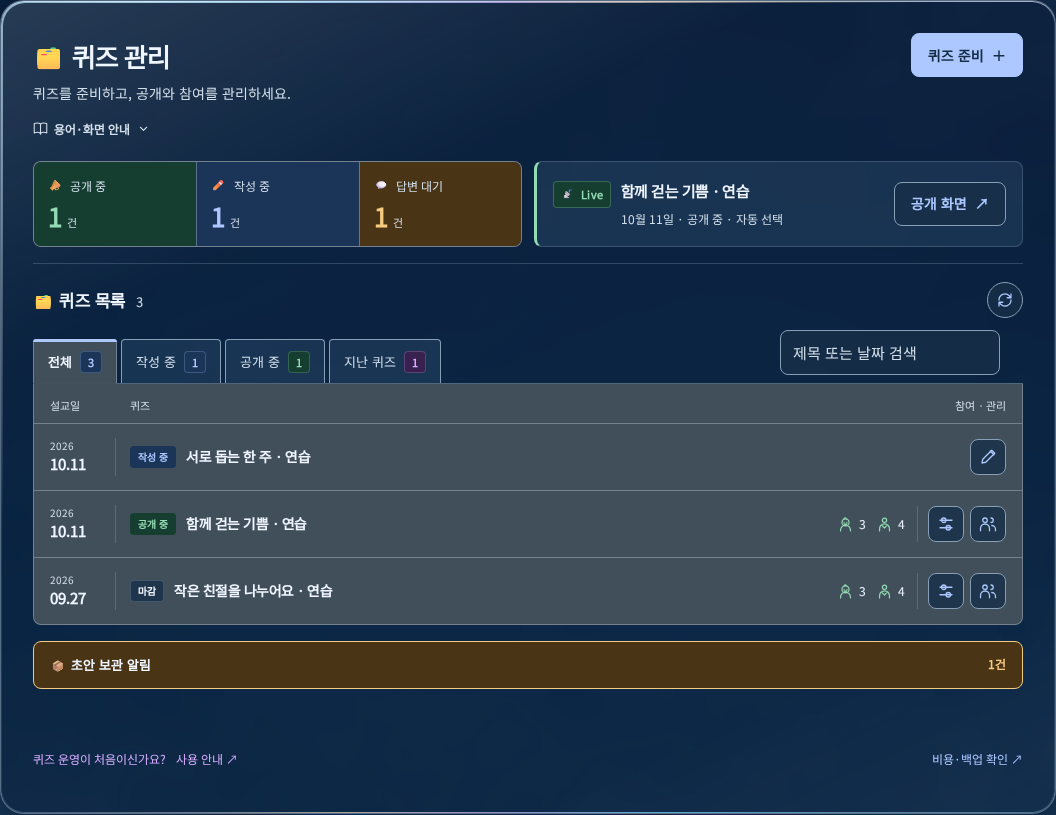
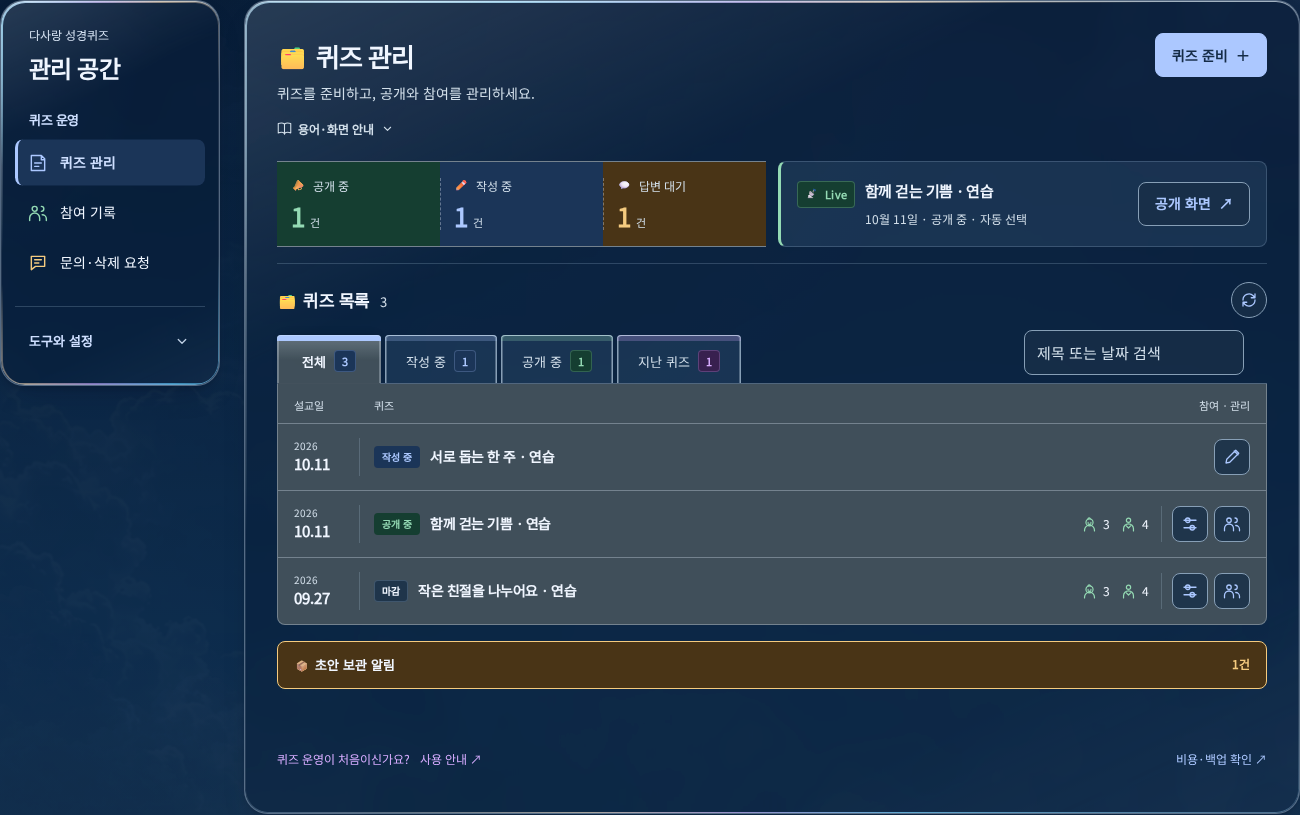
Keep admin indexes attached and refine transparent surfaces

diff --git a/docs/design/phase-9/admin-boards/review.html b/docs/design/phase-9/admin-boards/review.html
@@ -3,15 +3,15 @@
 <meta charset="utf-8"><meta name="viewport" content="width=device-width, initial-scale=1">
 <title>관리자 실제 화면과 생성 시안 비교</title>
 <style>
-body{margin:0;background:#eaf4fa;color:#17334a;font:15px/1.7 system-ui,sans-serif}main{max-width:1320px;margin:auto;padding:28px 20px}h1{font-size:26px;margin:0 0 8px}h2{font-size:21px;margin:0 0 8px}p{margin:8px 0 20px}section{border-top:1px solid #b8cfde;padding:24px 0}a{color:#245ac1}nav{display:flex;flex-wrap:wrap;gap:12px 24px;margin:20px 0}img{display:block;width:100%;height:auto;border:1px solid #b8cfde;background:white;border-radius:8px}figure{margin:0;min-width:0}figcaption{font-weight:600;margin-bottom:10px}.compare{display:grid;grid-template-columns:1fr 1fr;gap:24px;align-items:start}.quiz{max-width:1060px}small{display:block;color:#496376}a:focus-visible{outline:3px solid #245ac1;outline-offset:4px}@media(max-width:850px){.compare{grid-template-columns:1fr}}
+body{margin:0;background:#eaf4fa;color:#17334a;font:15px/1.7 system-ui,sans-serif}main{max-width:1320px;margin:auto;padding:28px 20px}h1{font-size:26px;margin:0 0 8px}h2{font-size:21px;margin:0 0 8px}p{margin:8px 0 20px}section{border-top:1px solid #b8cfde;padding:24px 0}a{color:#245ac1}nav{display:flex;flex-wrap:wrap;gap:12px 24px;margin:20px 0}img{display:block;width:100%;height:auto;border:1px solid #b8cfde;background:white;border-radius:8px}figure{margin:0;min-width:0}figcaption{font-weight:600;margin-bottom:10px}.compare{display:grid;grid-template-columns:1fr 1fr;gap:24px;align-items:start}.quiz{max-width:1320px}small{display:block;color:#496376}a:focus-visible{outline:3px solid #245ac1;outline-offset:4px}@media(max-width:850px){.compare{grid-template-columns:1fr}}
 .themes{display:flex;gap:6px;margin:18px 0}.themes button{min-height:40px;padding:8px 14px;border:1px solid #8baabe;border-radius:5px;background:transparent;color:inherit;cursor:pointer;font:inherit}.themes button[aria-pressed=true]{background:#245ac1;color:white;border-color:#245ac1}.themes button:focus-visible{outline:3px solid #245ac1;outline-offset:3px}body[data-preview=night]{background:#152839;color:#eaf2fa}body[data-preview=night] a{color:#acc8ff}body[data-preview=night] small{color:#c0d2e6}</style>
 <main>
 <h1>관리자 실제 화면과 생성 시안</h1>
-<p>2026년 10월 14일 적용 화면입니다. 현황과 Live를 5:5로 나누고, 초록·파랑·노랑 현황 바탕과 목록에 이어지는 카테고리를 적용했습니다. 실제 React UI에 연습 자료를 표시해 촬영했으며, 이미지를 누르면 원본을 크게 볼 수 있습니다.</p>
+<p>2026년 10월 14일 적용 화면입니다. 본문에 붙은 입체적인 인덱스, 점선으로 나눈 현황판, 콘텐츠 창과 투명도를 맞춘 사이드바를 적용했습니다. 실제 React UI에 연습 자료를 표시해 촬영했으며, 이미지를 누르면 원본을 크게 볼 수 있습니다.</p>
 <nav aria-label="실제 관리자 화면"><a href="/admin">퀴즈 관리 열기</a><a href="/admin/submissions">참여 기록 열기</a><a href="/admin/privacy-requests">문의·삭제 요청 열기</a></nav>
 <div class="themes" role="group" aria-label="실제 화면 시간대"><button type="button" data-preview-time="day" aria-pressed="true">☀ 낮 화면</button><button type="button" data-preview-time="night" aria-pressed="false">☾ 밤 화면</button></div>
 <p>낮·밤 버튼으로 실제 화면을 바꿔 볼 수 있습니다. 기존 생성 시안 두 장은 낮 배경을 유지합니다.</p>
-<section><h2>퀴즈 관리</h2><p>현황과 Live가 같은 폭을 사용합니다. 공개 중은 초록, 작성 중은 파랑, 답변 대기는 노랑 바탕이며 마우스를 올리면 칸 전체가 더 선명해집니다. 선택한 카테고리는 아래 목록과 하나의 폴더처럼 이어집니다.</p><figure class="quiz"><figcaption>실제 화면 · 연습 자료</figcaption><a href="quiz-actual.png"><img data-screenshot-day="quiz-actual.png" data-screenshot-night="quiz-night.png" src="quiz-actual.png" alt="실제 퀴즈 관리: 5대5 현황·Live, 세 가지 현황 바탕, 본문과 이어지는 인덱스"></a></figure></section>
+<section><h2>퀴즈 관리</h2><p>현황과 Live의 5:5 비율과 세 가지 바탕색을 유지했습니다. 현황판은 각진 모서리·위아래 선·점선 구분을 사용합니다. 인덱스는 호버해도 본문에서 떨어지지 않으며, 넓은 상단 색 띠와 얇은 반사·그림자로 입체감을 줍니다. 왼쪽 메뉴도 콘텐츠 창과 같은 투명도로 볼 수 있습니다.</p><figure class="quiz"><figcaption>실제 화면 · 연습 자료</figcaption><a href="quiz-actual.png"><img data-screenshot-day="quiz-actual.png" data-screenshot-night="quiz-night.png" src="quiz-actual.png" alt="실제 퀴즈 관리와 투명한 사이드바: 점선 현황판과 본문에 붙은 입체 인덱스"></a></figure></section>
 <section><h2>참여 기록</h2><p>행을 펼치면 왼쪽에는 답안과 코멘트, 오른쪽에는 처리 폼이 나타납니다. 점수와 상태를 작은 박스로 구분하고, 실제 제출값은 입력한 칸을 파랑·빈칸을 호박색으로 표시합니다.</p><div class="compare"><figure><figcaption>실제 화면 · 연습 자료</figcaption><a href="submissions-actual.png"><img data-screenshot-day="submissions-actual.png" data-screenshot-night="submissions-night.png" src="submissions-actual.png" alt="실제 참여 기록: 한 행을 펼친 답안과 관리 폼, 나머지 짧은 행"></a></figure><figure><figcaption>기존 생성 시안 · 배치 참고</figcaption><a href="submissions-reference.png"><img src="submissions-reference.png" alt="참여 기록의 기존 생성 시안"></a></figure></div></section>
 <section><h2>문의·삭제 요청</h2><p>카테고리와 목록이 시안처럼 같은 바탕으로 이어집니다. 접힌 행에는 이름·분류·상태·날짜와 한 줄 미리보기가 보입니다. 펼치면 전체 원문과 상태·답변 폼을 확인할 수 있습니다.</p><div class="compare"><figure><figcaption>실제 화면 · 연습 자료</figcaption><a href="inquiries-actual.png"><img data-screenshot-day="inquiries-actual.png" data-screenshot-night="inquiries-night.png" src="inquiries-actual.png" alt="실제 문의 게시판: 펼친 요청의 상태 선택과 답변 입력, 접힌 나머지 요청"></a></figure><figure><figcaption>기존 생성 시안 · 배치 참고</figcaption><a href="inquiries-reference.png"><img src="inquiries-reference.png" alt="문의 게시판의 기존 생성 시안"></a></figure></div></section>
 <small>기존 생성 이미지는 재사용했습니다. 실제 화면 이미지에는 개인 자료나 실제 운영 답안을 포함하지 않았습니다.</small>

diff --git a/src/components/admin-list-tools.module.css b/src/components/admin-list-tools.module.css
@@ -1,16 +1,16 @@
-.indexedBoard { min-width: 0; }
+.indexedBoard { --index-edge-light: color-mix(in srgb,var(--glass-highlight) 45%,transparent); min-width: 0; }
 .toolbar { display: flex; flex-wrap: wrap; align-items: end; justify-content: space-between; gap: 8px 16px; border-bottom: 1px solid var(--admin-board-border,var(--line)); min-width: 0; }
 .indexedPanel { min-width: 0; border: 1px solid var(--admin-board-border,var(--line)); border-top: 0; border-radius: 0 0 8px 8px; background: var(--admin-board-surface,var(--glass-solid)); overflow: clip; }
 .indexedPanel > p { margin: 0; padding: 16px; }
 .filters { display: flex; flex-wrap: wrap; align-items: end; gap: 4px; padding-top: 4px; }
-.filters button { position: relative; display: inline-flex; align-items: center; justify-content: center; gap: 8px; min-height: 44px; padding: 9px 14px; border: 1px solid var(--control-border); border-bottom: 0; border-radius: 4px 4px 0 0; background: var(--glass-soft); color: var(--muted); font-size: 13px; line-height: 1.5; transition: transform .18s ease, background-color .18s ease; }
-.filters button::before { content: ''; position: absolute; inset: -1px -1px auto; height: 3px; border-radius: 4px 4px 0 0; background: transparent; }
-.filters button[aria-pressed=true] { z-index: 1; background: var(--admin-board-surface,var(--glass-solid)); color: var(--ink); font-weight: 600; border-color: var(--admin-board-border,var(--line)); }
+.filters button { position: relative; display: inline-flex; align-items: center; justify-content: center; gap: 8px; min-width: 104px; min-height: 48px; padding: 12px 20px 9px; border: 1px solid var(--control-border); border-bottom: 0; border-radius: 4px 4px 0 0; background: var(--glass-soft); color: var(--muted); font-size: 13px; line-height: 1.5; box-shadow: inset 1px 0 0 var(--index-edge-light), inset -1px 0 0 var(--index-edge-light); transition: background-color .18s ease, box-shadow .18s ease; }
+.filters button::before { content: ''; position: absolute; inset: -1px -1px auto; height: 6px; border-radius: 4px 4px 0 0; background: color-mix(in srgb,var(--admin-tone) 24%,transparent); box-shadow: inset 0 1px 0 var(--index-edge-light); transition: background-color .18s ease; }
+.filters button[aria-pressed=true] { z-index: 1; background-color: var(--admin-board-surface,var(--glass-solid)); background-image: linear-gradient(to bottom,color-mix(in srgb,var(--glass-highlight) 35%,transparent),transparent 24px); color: var(--ink); font-weight: 600; border-color: var(--admin-board-border,var(--line)); box-shadow: inset 1px 0 0 var(--index-edge-light), inset -1px 0 0 var(--index-edge-light), 0 -4px 9px -6px var(--glass-shadow); }
 .filters button[aria-pressed=true]::before { background: var(--admin-tone); }
 /* Cover only the shared baseline, leaving the selected folder open into its contents. */
 .filters button[aria-pressed=true]::after { content: ''; position: absolute; inset: auto 0 -1px; height: 1px; background: var(--admin-board-solid,var(--glass-solid)); }
-.filters button:is(:hover,:focus-visible) { color: var(--ink); background: var(--admin-board-surface,var(--glass-solid)); }
-.filters button:not([aria-pressed=true]):is(:hover,:focus-visible) { transform: translateY(-4px); }
+.filters button:is(:hover,:focus-visible) { color: var(--ink); background-color: var(--admin-board-surface,var(--glass-solid)); box-shadow: inset 1px 0 0 var(--index-edge-light), inset -1px 0 0 var(--index-edge-light), 0 -4px 9px -6px var(--glass-shadow); }
+.filters button:is(:hover,:focus-visible)::before { background: var(--admin-tone); }
 .filters span { display: inline-flex; justify-content: center; align-items: center; min-width: 22px; min-height: 22px; padding-inline: 5px; border: 1px solid color-mix(in srgb,var(--admin-tone) 24%,transparent); border-radius: 4px; background: var(--admin-tone-bg); color: var(--admin-tone); font-size: 11px; font-weight: 600; font-variant-numeric: tabular-nums; }
 .controls { display: flex; align-items: center; gap: 8px; min-width: 0; margin-bottom: 8px; }
 /* One size rule for every refresh and square action; touch keeps a generous target. */
@@ -18,8 +18,9 @@
 :global(.sky-app:not(.home-shell) .admin-main) .iconControl.refresh:global(.action-button) { border-radius: 50%; }
 .iconControl svg { display: block; width: 18px; height: 18px; flex: 0 0 18px; }
 @media (pointer: coarse) { :global(.sky-app:not(.home-shell) .admin-main) .iconControl:global(.action-button) { --admin-icon-size: 44px; } }
-@media (max-width: 600px) { .toolbar { gap: 8px; } .filters { gap: 3px; } .filters button { padding-inline: 7px; gap: 4px; font-size: 12px; } .filters span { min-width: 20px; min-height: 20px; padding-inline: 4px; } .controls:has(input) { width: 100%; order: -1; } }
-@media (prefers-reduced-motion: reduce) { .filters button { transition: none; } }
+@media (max-width: 1200px) { .controls:has(input) { width: 100%; order: -1; } }
+@media (max-width: 600px) { .toolbar { gap: 8px; } .filters { gap: 3px; } .filters button { min-width: 0; padding-inline: 7px; gap: 4px; font-size: 12px; } .filters span { min-width: 20px; min-height: 20px; padding-inline: 4px; } }
+@media (prefers-reduced-motion: reduce) { .filters button, .filters button::before { transition: none; } }
 @media (forced-colors: active) { .filters button[aria-pressed=true] { border-color: Highlight; color: Highlight; } .filters button[aria-pressed=true]::before { background: Highlight; } }
 
 .boardHeader { min-width: 0; }

diff --git a/src/features/admin-weekly/admin-navigation.module.css b/src/features/admin-weekly/admin-navigation.module.css
@@ -1,8 +1,8 @@
-.sidebar:global(.glass) { position: sticky; top: 116px; display: flex; flex-direction: column; min-width: 0; padding: 24px 14px 16px; border-radius: 24px; }
-.sidebar .eyebrow { margin: 0 14px; color: var(--muted); font-size: 12px; }
+.sidebar:global(.glass) { --nav-action-ink: color-mix(in srgb,var(--ui-action) 50%,var(--ink)); position: sticky; top: 116px; display: flex; flex-direction: column; min-width: 0; padding: 24px 14px 16px; border-radius: 24px; background: var(--glass-clear); }
+.sidebar .eyebrow { margin: 0 14px; color: color-mix(in srgb,var(--muted) 60%,var(--ink)); font-size: 12px; }
 .sidebar .title { margin: 5px 14px 0; font-family: 'Noto Sans KR',sans-serif !important; font-size: 24px; font-weight: 700 !important; line-height: 1.5; letter-spacing: -.045em; color: var(--ink); }
 .menu { margin-top: 24px; }
-.sidebar .groupTitle { margin: 0 14px 10px; font-family: 'Noto Sans KR',sans-serif !important; font-size: 13px; font-weight: 700 !important; letter-spacing: 0; color: var(--ui-action) !important; }
+.sidebar .groupTitle { margin: 0 14px 10px; font-family: 'Noto Sans KR',sans-serif !important; font-size: 13px; font-weight: 700 !important; letter-spacing: 0; color: var(--nav-action-ink) !important; }
 .menu > summary, .settings > summary { display: flex; align-items: center; justify-content: space-between; gap: 8px; cursor: pointer; min-height: 44px; list-style: none; }
 .menu > summary::-webkit-details-marker, .settings > summary::-webkit-details-marker { display: none; }
 .menu > summary { padding: 10px 14px; font-size: 14px; }
@@ -15,11 +15,11 @@
 .menu nav { position: relative; isolation: isolate; }
 .highlight { position: absolute; top: 0; left: 0; pointer-events: none; z-index: -1; border-radius: 8px; background: var(--ui-action-bg); border-left: 3px solid var(--ui-action); transition: transform .2s ease-out, width .2s ease-out, height .2s ease-out; }
 .nav a { position: relative; }
-.sidebar .nav a[aria-current=page] { color: var(--ui-action); font-weight: 700; }
-.nav a:is(:hover,:focus-visible) { color: var(--ui-action); }
+.sidebar .nav a[aria-current=page] { color: var(--nav-action-ink); font-weight: 700; }
+.nav a:is(:hover,:focus-visible) { color: var(--nav-action-ink); }
 @media (prefers-reduced-motion: reduce) { .highlight { transition: none; } }
 .settings { border-top: 1px solid var(--line); margin-top: 20px; padding-top: 12px; }
-.settings > summary { color: var(--ui-action); font-size: 13px; font-weight: 700; padding: 8px 14px; margin-bottom: 6px; }
+.settings > summary { color: var(--nav-action-ink); font-size: 13px; font-weight: 700; padding: 8px 14px; margin-bottom: 6px; }
 .settings > summary svg { color: var(--muted); }
 .sidebar :is(a, summary):focus-visible { outline: 3px solid var(--focus); outline-offset: 3px; }
 .menu nav { display: block; padding-block: 0; }
@@ -39,6 +39,7 @@
 }
 @media (max-width: 500px) { .nav { grid-template-columns: 1fr; } .nav a { min-height: 44px; } }
 @media (forced-colors: active) {
+ .sidebar:global(.glass) { background: Canvas; color: CanvasText; }
  .sidebar .nav a[aria-current=page] { color: Highlight; background: Canvas; outline: 2px solid Highlight; outline-offset: -2px; }
  .highlight { background: Canvas; border: 2px solid Highlight; }
  .sidebar .groupTitle, .settings > summary { color: CanvasText; }

diff --git a/src/features/admin-weekly/dashboard.module.css b/src/features/admin-weekly/dashboard.module.css
@@ -1,10 +1,8 @@
 .page { display: grid; gap: 16px; min-width: 0; }
 .statusBar { display: grid; grid-template-columns: repeat(2,minmax(0,1fr)); gap: 12px; align-items: stretch; min-width: 0; }
-.overview { display: grid; grid-template-columns: repeat(3,minmax(0,1fr)); border: 1px solid var(--admin-board-border,var(--line)); border-radius: 8px; background: var(--admin-board-surface,var(--glass-solid)); }
-.overview > :is(button,a) { display: flex; flex-direction: column; align-items: flex-start; justify-content: center; gap: 4px; min-height: 84px; min-width: 0; padding: 10px 14px; border: 0; border-radius: 0; background: var(--admin-tone-bg); color: var(--ink); text-decoration: none; transition: background-color .18s ease; }
-.overview > :is(button,a) + :is(button,a) { border-left: 1px solid var(--admin-board-border,var(--line)); }
-.overview > :first-child { border-radius: 7px 0 0 7px; }
-.overview > :last-child { border-radius: 0 7px 7px 0; }
+.overview { display: grid; grid-template-columns: repeat(3,minmax(0,1fr)); border-block: 1px solid var(--admin-board-border,var(--line)); background: var(--admin-board-surface,var(--glass-solid)); }
+.overview > :is(button,a) { position: relative; display: flex; flex-direction: column; align-items: flex-start; justify-content: center; gap: 4px; min-height: 84px; min-width: 0; padding: 10px 14px; border: 0; border-radius: 0; background: var(--admin-tone-bg); color: var(--ink); text-decoration: none; transition: background-color .18s ease; }
+.overview > :is(button,a) + :is(button,a)::before { content: ''; position: absolute; left: 0; top: 16px; bottom: 16px; border-left: 1px dashed color-mix(in srgb,var(--ink) 34%,transparent); pointer-events: none; }
 .overview > :is(button,a):is(:hover,:focus-visible,[aria-pressed=true]) { background: color-mix(in srgb,var(--admin-tone) 12%,var(--admin-tone-bg)); }
 .overview > button[aria-pressed=true] { box-shadow: inset 0 -3px var(--admin-tone); }
 .metricLabel { display: inline-flex; align-items: center; gap: 4px; color: var(--muted); font-size: 12px; white-space: nowrap; }

diff --git a/tests/e2e/admin-boards.spec.ts b/tests/e2e/admin-boards.spec.ts
@@ -45,6 +45,11 @@ test('quiz and inbox indexes stay joined to the list while filtering',async({pag
     const layout=await toolbar.evaluate(n=>({width:n.getBoundingClientRect().width,parent:n.parentElement!.getBoundingClientRect().width,border:getComputedStyle(n).borderBottomWidth}));
     expect(layout.width).toBeGreaterThan(layout.parent-2);expect(layout.border).toBe('1px');
     const selected=tabs.locator('[aria-pressed=true]');await expect(selected).toHaveCSS('border-top-left-radius','4px');
+    const preview=tabs.getByRole('button').nth(1);
+    await preview.hover();
+    await expect(preview).toHaveCSS('background-color',await page.locator('[data-admin-indexed-panel]').evaluate(n=>getComputedStyle(n).backgroundColor));
+    const afterHover=await preview.boundingBox(),panel=await page.locator('[data-admin-indexed-panel]').boundingBox();
+    expect(Math.abs(panel!.y-afterHover!.y-afterHover!.height)).toBeLessThanOrEqual(1);
     await tabs.getByRole('button').last().click();await expect(tabs.getByRole('button').last()).toHaveAttribute('aria-pressed','true');
     await expect(selected).toHaveCSS('background-color',await page.locator('[data-admin-indexed-panel]').evaluate(n=>getComputedStyle(n).backgroundColor));
     const joined=await page.locator('[data-admin-indexed-board]').evaluate(n=>{

diff --git a/tests/e2e/admin-guide-capture.spec.ts b/tests/e2e/admin-guide-capture.spec.ts
@@ -49,10 +49,11 @@ test('capture operator guide examples', async ({ page }) => {
     await page.screenshot({path:`public/images/admin-guide/${id}.png`,animations:'disabled',fullPage:true,clip:{x:a.x+scroll.x,y:a.y+scroll.y,width:a.width,height:b.y+b.height-a.y}});
   }
   async function boardShot(id:string) {
-    await page.locator('.admin-main').screenshot({path:`docs/design/phase-9/admin-boards/${id}-actual.png`,animations:'disabled'});
+    const board=page.locator(id==='quiz'?'.admin-layout':'.admin-main');
+    await board.screenshot({path:`docs/design/phase-9/admin-boards/${id}-actual.png`,animations:'disabled'});
     await page.getByRole('button',{name:'밤',exact:true}).click();
     await expect(page.locator('body')).toHaveAttribute('data-time','night');
-    await page.locator('.admin-main').screenshot({path:`docs/design/phase-9/admin-boards/${id}-night.png`,animations:'disabled'});
+    await board.screenshot({path:`docs/design/phase-9/admin-boards/${id}-night.png`,animations:'disabled'});
   }
   const dashboardOnly=process.env.BIBLEQUIZ_CAPTURE_ADMIN_GUIDE_ONLY === 'dashboard';
   await open('/admin');

diff --git a/tests/e2e/admin-glass.spec.ts b/tests/e2e/admin-glass.spec.ts
@@ -35,6 +35,7 @@ test("admin menus group tasks, use a flat moving highlight and use compact share
   await expect(page.getByRole("heading",{name:"퀴즈 관리",exact:true})).toHaveCSS("font-family", /Noto Sans KR/);
   await page.locator(".admin-main").screenshot({ path: info.outputPath("admin-buttons-day.png") });
   const sidebar=page.locator("aside[data-glass-panel=standard]"),navigation=page.getByRole("navigation",{name:"관리자 운영 메뉴"});
+  await expect(sidebar).toHaveCSS('background-color',await page.locator('.admin-main').evaluate(node=>getComputedStyle(node).backgroundColor));
   const toggle=sidebar.locator("summary").filter({hasText:"관리자 운영 메뉴"});
   if (isMobile) {
     await toggle.focus(); await page.keyboard.press("Enter"); await expect(navigation).toBeVisible();

diff --git a/docs/HANDOFF.md b/docs/HANDOFF.md
@@ -2,17 +2,18 @@
 
 ## 현재 작업과 Git
 
-**P9-23 현황·Live 5:5와 연결된 인덱스 — 로컬 완료.** `/home/onegem/work/bibleQuiz`, main `c2e4fa3` / clean에서 재개했다. 이번 커밋 제목은 `Connect admin indexes to boards and balance overview`다. 정확한 마지막 해시와 작업 폴더는 `git log -1`·`git status --short`로 확인한다. 후속 보정은 같은 P9-23에서 처리한다.
+**P9-23 붙어 있는 입체 인덱스·점선 현황·투명 사이드바 — 로컬 완료.** `/home/onegem/work/bibleQuiz`, main `063a310` / clean에서 재개했다. 이번 커밋 제목은 `Keep admin indexes attached and refine transparent surfaces`다. 정확한 해시와 작업 폴더는 `git log -1`·`git status --short`로 확인한다. 후속 보정은 같은 P9-23에서 처리한다.
 
 ## 변경과 검사
 
-- Dashboard 현황/Live를5:5로, 현황은 초록·파랑·노랑 상시 바탕으로 바꿨다. 전체 칸 호버·선택 선·시간대 의미색·1100px 이하 위아래 배치를 유지한다.
-- AdminListTools의 기존 필터를 `AdminIndexedBoard`로 확장했다. Dashboard/PrivacyInbox의 선택 탭과 목록을 같은 바탕으로 연결하고 중간 여백·중복 테두리를 제거했다. 조회/빈 상태도 같은 본문을 쓴다. 비선택 탭의 이동·기존 필터/검색/문의 입력 유지·참여 목록의 외곽은 보존한다. 관련 CSS3개와 E2E 연결 검사를 함께 수정했다.
-- 관련 PC/모바일 E2E14건은 최초12통과·2실패. 색 전환 도중 측정한 검사만 전환 완료를 기다리도록 고쳐 해당2건 모두 통과했다. 최종 lint/typecheck·합성 캡처1건 통과. 실제5173 퀴즈/문의 네 시간대·1440/390/320px·접힘/펼침36상태, 현황12개 호버·중간 폭6종·낮/밤 감소/강제 색상4상태에서 넘침/오류/쓰기0. PC 두 영역의 폭 차이1px 미만이며 새로고침 중심·입력 유지·키보드를 확인했다.
-- 비교용 낮/밤6장과 설명용3장을 합성 GET으로 촬영했다. 퀴즈/문의 비교4장과 설명용2장이 변경됐으며 나머지는 동일하다. 기존 시안2장은 보존한다. 비교 페이지의 낮/밤 전환·8개 PNG HTTP/디코딩·원본 링크·320px 확인을 사용자 기기 표시와 구별한다.
-- DESIGN/디자인 정본/결정/상태·작업 기록/자산 목록을 갱신했다. [현재 기록](work/P9-23.md#동등한-현황live와-본문에-연결된-인덱스), ignored 증거 `.wrangler/releases/p9-23/folder-index-*`. 이번에는 build/전체check/전체E2E·Firefox/Safari·실기기/화면 읽기 프로그램을 반복하지 않았다. 이전 검증 이력은 작업 기록을 따른다.
+- `admin-list-tools.module.css`: 탭의 위치 이동을 모두 없애고6px 상단 색 띠·넓은 PC 탭·얇은 반사/그림자를 적용했다. 검색은1200px 이하에서 탭 위에 배치한다. 모바일 한 줄 탭과 키보드 전환을 유지한다.
+- `dashboard.module.css`: 현황은 직각·위아래 선만 사용하며 가운데는 위아래 여백이 있는 점선이다.5:5·세 의미색·전체 호버는 유지한다.
+- `admin-navigation.module.css`: 사이드바를 콘텐츠 창과 같은 맑은 유리로 바꾸고 작은 글자 대비를 보완했다. 기존 메뉴·아이콘 역할색·선택 받침·모바일 접기를 유지한다.
+- 관련 E2E14건 최초13통과·1실패. 모바일 호버 시 자동 스크롤을 이동으로 오인한 검사만 상대 간격 기준으로 수정했으며 해당 PC/모바일2건 통과. 최종 lint/typecheck·합성 캡처1건 통과. 실제 네 시간대·1440/390/320px36상태, 현황12개 호버·중간 폭6종·감소/강제 색상4상태를 확인했다. 반사/글자 최종 보정 후84개 탭 호버·12개 사이드바 상태에서도 연결/넘침/오류/쓰기 문제0. 작은 메뉴 글자 표본 대비 최저4.68:1이며 전체 앱 인증과 구별한다.
+- 퀴즈/문의 비교용 낮/밤4장과 설명용2장이 변경됐다. 퀴즈 비교 화면에는 사이드바까지 포함한다. 참여/나머지 설명 자산·기존 생성 시안은 보존한다. PNG8종 HTTP200/디코딩·확대 링크·낮/밤 전환·320px 검사를 사용자 기기 표시와 구별한다.
+- [현재 기록](work/P9-23.md#붙어-있는-입체-인덱스점선-현황투명-사이드바), ignored `.wrangler/releases/p9-23/attached-tabs-*`. 최종 관련 파일·DESIGN/명세/결정/상태/자산 문서를 검토해 로컬 커밋한다. 이번에는 build/전체check/전체E2E·Firefox/Safari·실기기/화면 읽기 프로그램을 반복하지 않았다.
 
-폐기한 접근: 비대칭 현황/Live, 무채색의 기본 현황, 카테고리와 본문의 틈/중복 테두리, 선택 탭까지 띄우는 호버. 필터 재시도·접기/입력 유지·매뉴얼·공통 버튼과 밤 회청색 본문은 보존한다.
+폐기한 접근: 본문과 분리되는 호버 이동, 밤의 과한 이중 반사, 투명도만 바꿔 작은 글자 대비를 떨어뜨리기. 기존 자료·필터/검색·접기/입력·매뉴얼·공통 버튼은 보존한다.
 
 ## 실행과 다음 첫 작업
 
@@ -25,7 +26,7 @@
 
 도구는 검증된 `/bin/bash`, `login:false`, 명시 workdir, `require_escalated` 승인 검토 경로를 쓴다. 시작 전 ENOENT를 WSL 단절로 판단하거나 승인 거부를 우회하지 않는다. 이미지는 확인된HTTP/첨부로 보여주며 WSL 경로 Markdown만 보내지 않는다.
 
-시작 Pro 잔여82% × 사용자 지정10 =820%, 별도5시간 창 없음. 다음 구현 전 사용량을 확인한다. 읽기 순서: AGENTS → PROJECT_CONTEXT → DECISIONS → STATUS → HANDOFF → implementation 관련 명세 → P9-23 → Git 상태/diff/log.
+시작 Pro 잔여81% × 사용자 지정10 =810%, 별도5시간 창 없음. 다음 구현 전 사용량을 확인한다. 읽기 순서: AGENTS → PROJECT_CONTEXT → DECISIONS → STATUS → HANDOFF → implementation 관련 명세 → P9-23 → Git 상태/diff/log.
 
 push/배포·실제 자료 쓰기·AI 호출·새 의존성은 없다. Preview는 P9-14 소스 `0fbde84` / version `cd6efb0e-2c05-4401-b0bf-692bdf18c5b1`, Production은 P9-04 소스 `37b7254` / version `7aea6843-5288-42da-9bef-bc673e1d9dfe` 그대로다.
 

diff --git a/docs/work/P9-23.md b/docs/work/P9-23.md
@@ -231,6 +231,19 @@ Git 제외 증거는 `.wrangler/releases/p9-23/editorial/`: `e2e-admin.log`, `e2
 
 증거: ignored `.wrangler/releases/p9-23/folder-index-*`. 현재 후속은 Phase/배포 경계가 아니며 build/전체check/전체E2E·Firefox/Safari·실기기/화면 읽기 프로그램을 반복하지 않았다. DESIGN/디자인 정본/결정/상태/인계·자산 문서를 갱신하고 로컬 커밋한다. 기존5173과 로컬 자료·의존성·AI·원격·push/배포는 바꾸지 않았다. 폐기한 접근: 비대칭 현황/Live, 평상시 무채색 현황 칸, 카테고리와 목록 사이의 틈/중복 테두리, 선택한 탭까지 띄워 연결을 끊는 호버.
 
+## 붙어 있는 입체 인덱스·점선 현황·투명 사이드바
+
+2026-10-14. main `063a310` / clean에서 같은 P9-23을 재개했다. 실제 경로 `/home/onegem/work/bibleQuiz`, Pro 잔여81% × 사용자 기준10 =810%, 별도5시간 창 없음. 추천 GPT-6.1-sol/medium. 기존 문의 시안을 다시 대조했다.
+
+- `admin-list-tools.module.css`: 비선택 탭의4px 이동도 제거했다.6px 상단 색 띠, PC 최소104px 폭·48px 높이와 얇은 반사/위쪽 그림자로 붙어 있는 입체감을 만들었다.1200px 이하 검색은 탭 위에 두고 모바일 탭 폭은 기존처럼 줄인다. 선택·검색·키보드 기능과 본문 연결은 유지한다.
+- `dashboard.module.css`: 현황의 둥근 모서리·좌우 외곽선을 제거했다. 위아래1px 선과 위아래16px를 비운 가운데1px 점선 두 개를 사용한다.5:5·세 의미색·전체 칸 호버를 보존한다.
+- `admin-navigation.module.css`: 사이드바도 세 게시판 창의 맑은 유리 토큰을 사용한다. 첫 실제 화면에서 낮·새벽의 작은 파란 글자 대비가 낮아 실행/기본 글자색을1:1로 섞고 보조 글자도 보완했다. 아이콘의 의미색·현재 메뉴·이동 받침·모바일 접기·감소/강제 색상은 보존한다.
+- 관련 Chromium PC/모바일 E2E14건은 최초13통과·1실패. 새 호버 검사가 모바일 자동 스크롤7px를 이동 효과로 잘못 측정했다. 화면 좌표 비교를 없애고 탭과 본문의 실제 상대 간격을 확인한 뒤 해당 PC/모바일2건 모두 통과했다. 최종 lint/typecheck와 합성 캡처1건 통과.
+- 실제 네 시간대·1440/390/320px 퀴즈/문의 접힘·펼침36상태에서 넘침/오류/쓰기0, 사이드바와 창의 같은 배경색·5:5·입력 유지·새로고침 중앙을 확인했다. 현황12개 호버·중간 폭6종·감소/강제 색상4상태도 확인했다. 밤 반사선과 메뉴 글자를 보완한 최종 화면은84개 탭 호버 조합 및 열린 모바일 메뉴를 포함한12개 사이드바 상태에서 다시 확인했다. 모든 탭의 본문 간격1px 이하, 실제 배경 위 작은 메뉴 글자 표본 대비 최저4.68:1. 화면 전체의 접근성 인증을 뜻하지 않는다. 기본 Python에 Pillow가 없어 새 설치 없이 브라우저 canvas로 표본 픽셀을 읽었다.
+- 합성 자료의 실제 낮/밤 비교6장과 설명용3장을 재촬영했다. 퀴즈 비교2장에는 사이드바도 포함하며 문의 비교2장·설명용 dashboard/privacy2장도 바뀌었다. 참여 촬영본·기타6개 설명 자산·기존 시안은 동일하다. [비교 페이지](../design/phase-9/admin-boards/review.html)의8개 PNG HTTP200/image/png·디코딩·확대 링크·낮/밤 키보드 전환·320px 넘침 없음 확인. 사용자 기기 표시와 구별한다.
+
+증거는 ignored `.wrangler/releases/p9-23/attached-tabs-*`. DESIGN/관련 명세·결정/STATUS/HANDOFF/자산 목록을 갱신하고 로컬 커밋한다. 새 의존성·실제 AI·자료 쓰기·원격 변경·push/배포는 없다. 이번 범위에서 build/전체check/전체E2E·Firefox/Safari·실기기/화면 읽기 프로그램은 반복하지 않았다. 폐기한 접근: 탭을 띄워 본문과 분리하기, 밤의 과한 이중 반사선, 투명도를 높이면서 작은 글자 대비를 그대로 두기, 모바일 스크롤을 탭 이동으로 판단하기.
+
 ## 한계와 보존
 
 이모지의 모양은 기기의 시스템 글꼴에 따라 달라진다. WSL의 미설치 글꼴로 인한 빈 네모는 캡처에서만 이미 설치된 Windows 글꼴을 읽어 해결했고 앱에 글꼴을 배포하지 않는다. 새 화면 예시는 연습 자료이며 실제 운영 검증 증거가 아니다. 실기기·화면 읽기 프로그램·원격 인증/배포는 이번 검증 범위에 포함하지 않는다. Phase/배포 단위의 전체 필수 검사는 별도 경계에서 수행한다.

diff --git a/docs/design/phase-9/admin-boards/README.md b/docs/design/phase-9/admin-boards/README.md
@@ -10,20 +10,20 @@ HTTP 확인 주소: `http://localhost:5173/docs/design/phase-9/admin-boards/subm
 
 2026-10-14 사용자 재현 요청에 따라 실제 `/admin`, `/admin/submissions`, `/admin/privacy-requests`를 다시 적용했다. 기존에는 본문과 도구 버튼이 항상 보였으나 이제 시안처럼 짧은 행 전체를 펼친다. 참여는 답안/관리, 문의는 상태/답변을 좌우로 배치하고 모바일에서는 위아래로 놓는다. 문의의 관련 퀴즈 링크는 행 클릭과 겹치지 않도록 펼친 본문에 둔다.
 
-시안의 개별 행 틈은 사용자의 연속 게시판 요청에 따라 없앴다. 가상 정오답 색·인물 사진은 만들지 않았고 실제 답안 좌표/입력값과 기존 선 아이콘을 쓴다. 하늘·투명 표면·다섯 의미 색상은 유지한다. 바깥 창은 맑은 유리, 핵심 현황·목록·펼친 내용은 선명한 바탕으로 구분했다. 퀴즈 현황과 Live는 넓은 화면에서5:5다. 세 현황 칸은 초록·파랑·노랑 바탕과 전체 칸 호버를 사용하며, Live는 별도 유리 영역으로 구분한다. 퀴즈·문의 카테고리는 선택 탭과 목록이 하나의 폴더로 이어진다. 밤 목록은 회청색으로 구분하며 색상 인덱스·작은 점수/입력 여부 박스를 적용했다.66px 퀴즈 행과 모바일 자연 배치를 유지한다.
+시안의 개별 행 틈은 사용자의 연속 게시판 요청에 따라 없앴다. 가상 정오답 색·인물 사진은 만들지 않았고 실제 답안 좌표/입력값과 기존 선 아이콘을 쓴다. 하늘·투명 표면·다섯 의미 색상은 유지한다. 바깥 창은 맑은 유리, 핵심 현황·목록·펼친 내용은 선명한 바탕으로 구분했다. 퀴즈 현황과 Live는 넓은 화면에서5:5다. 세 현황 칸은 초록·파랑·노랑 바탕과 직각 모서리·위아래 선·가운데 점선을 사용하며, Live는 별도 유리 영역으로 구분한다. 퀴즈·문의 인덱스는 호버 때도 본문에 붙어 있고 넓은 상단 색 띠·얇은 반사·그림자를 쓴다. 사이드바도 콘텐츠 창과 같은 투명도를 사용하며 퀴즈 실제 촬영본에 함께 포함한다. 밤 목록은 회청색으로 구분하며 색상 인덱스·작은 점수/입력 여부 박스를 적용했다.66px 퀴즈 행과 모바일 자연 배치를 유지한다.
 
-적용 진입점은 `AdminBoardHeader`/`AdminListTools`·`AdminRecord`다. 수치·동작은 [디자인 정본](../../../spec/design.md#p9-23-후속--시안에-맞춘-세-게시판), 실제 검사는 [작업 기록](../../../work/P9-23.md#동등한-현황live와-본문에-연결된-인덱스)을 따른다.
+적용 진입점은 `AdminBoardHeader`/`AdminListTools`·`AdminRecord`다. 수치·동작은 [디자인 정본](../../../spec/design.md#p9-23-후속--시안에-맞춘-세-게시판), 실제 검사는 [작업 기록](../../../work/P9-23.md#붙어-있는-입체-인덱스점선-현황투명-사이드바)을 따른다.
 
 | 실제 UI 촬영본 | 해상도 | bytes |
 |---|---|---|
-| quiz-actual.png | 1056×815 | 223,634 |
-| quiz-night.png | 1056×815 | 165,455 |
+| quiz-actual.png | 1300×815 | 389,371 |
+| quiz-night.png | 1300×815 | 278,421 |
 | submissions-actual.png | 1056×1118 | 268,345 |
 | submissions-night.png | 1056×1118 | 214,202 |
-| inquiries-actual.png | 1056×915 | 209,453 |
-| inquiries-night.png | 1056×915 | 165,345 |
+| inquiries-actual.png | 1056×919 | 211,057 |
+| inquiries-night.png | 1056×919 | 166,032 |
 
-실제 React UI에 합성 GET 자료만 넣어 촬영했으며 공개 가능한 연습 자산이다. 재현 명령은 [화면 예시 자산](../admin-guide/README.md)을 따른다. 기존 실제5173 자료를 촬영한 내부 검수 증거는 ignored `.wrangler/releases/p9-23/folder-index-*`에 별도 보관하며 정적 자산으로 복사하지 않았다.
+실제 React UI에 합성 GET 자료만 넣어 촬영했으며 공개 가능한 연습 자산이다. 재현 명령은 [화면 예시 자산](../admin-guide/README.md)을 따른다. 기존 실제5173 자료를 촬영한 내부 검수 증거는 ignored `.wrangler/releases/p9-23/attached-tabs-*`에 별도 보관하며 정적 자산으로 복사하지 않았다.
 
 생성 원본은 Windows Codex generated_images의 현재 대화 폴더에 그대로 남겼다. 이 경로에는 배포된 AI 결과나 실제 참여자 자료가 들어 있지 않다.
 

diff --git a/DESIGN.md b/DESIGN.md
@@ -20,4 +20,4 @@ P9-23 퀴즈 관리는 촘촘한 안내 구역, 📡 Live, 목록 구분선, 파
 
 퀴즈 목록은 [설교일 게시판과 작은 아이콘](docs/spec/design.md#p9-23-후속--설교일-게시판과-작은-아이콘)을 따른다. 새로고침/정사각형 작업/짧은 말풍선/접기 화살표는 공통 구현에서 고치며 페이지별 복제를 만들지 않는다. 접기 화살표는 제목과 설명을 포함한 영역의 세로 중앙에 놓는다. 이름·문구 필터는 조회 실패 때만 ‘다시 시도’를 표시한다.
 
-퀴즈 관리·참여 기록·문의는 [기존 시안에 맞춘 세 게시판](docs/spec/design.md#p9-23-후속--시안에-맞춘-세-게시판)을 따른다. 바깥 창은 맑은 유리로 두고 현황·목록·펼친 내용에 선명한 바탕을 집중한다. 퀴즈 현황과 Live는 넓은 화면에서5:5다. 현황 세 칸은 초록·파랑·노랑 바탕을 상시 표시하고 전체 칸 호버와 구분선을 사용한다. Live는 초록 표식의 투명 영역으로 구분한다. 퀴즈·문의의 선택 카테고리는 `AdminIndexedBoard`에서 아래 목록과 같은 바탕·끊기지 않는 외곽으로 연결한다. 밤 본문의 회청색과 작은 의미색 박스, 고딕 제목·접힌 안내·짧은 행·펼친 본문의 좌우 구분을 유지한다. 관련 퀴즈 링크는 문의 본문 안에 두어 행 펼치기와 충돌하지 않게 한다.
+퀴즈 관리·참여 기록·문의는 [기존 시안에 맞춘 세 게시판](docs/spec/design.md#p9-23-후속--시안에-맞춘-세-게시판)을 따른다. 바깥 창은 맑은 유리로 두고 현황·목록·펼친 내용에 선명한 바탕을 집중한다. 퀴즈 현황과 Live는 넓은 화면에서5:5다. 현황 세 칸은 초록·파랑·노랑 바탕, 직각 모서리·위아래 선·가운데 점선을 사용한다. 전체 칸 호버를 유지한다. Live는 초록 표식의 투명 영역으로 구분한다. 퀴즈·문의 카테고리는 `AdminIndexedBoard`에서 호버해도 본문에 붙어 있다. 넓은 상단 색 띠와 얇은 반사·그림자로 입체감을 주며 위치 이동은 하지 않는다. 사이드바는 콘텐츠 창과 같은 투명 재질을 사용하고 작은 글자의 대비를 보완한다. 밤 본문의 회청색과 작은 의미색 박스, 고딕 제목·접힌 안내·짧은 행·펼친 본문의 좌우 구분을 유지한다. 관련 퀴즈 링크는 문의 본문 안에 두어 행 펼치기와 충돌하지 않게 한다.
